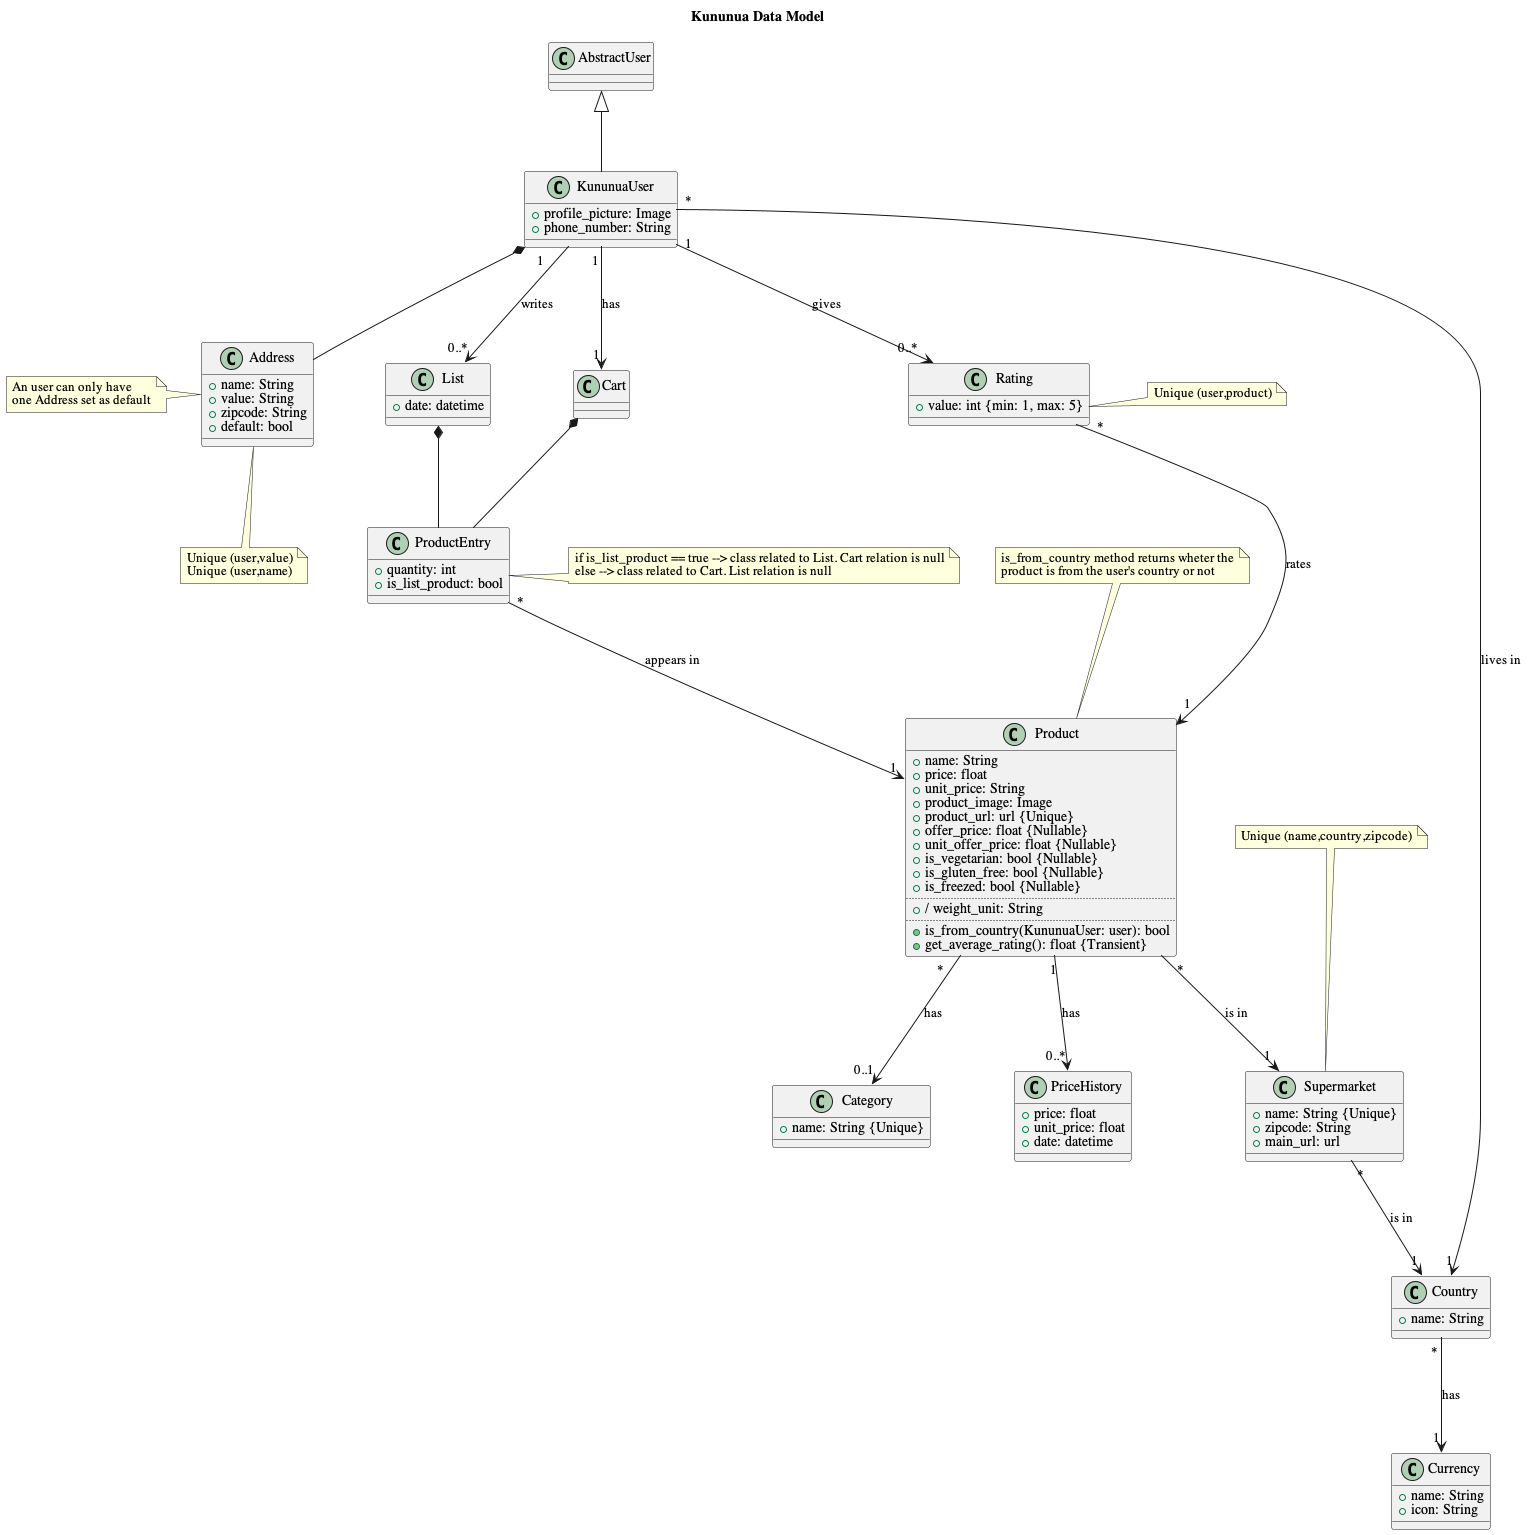
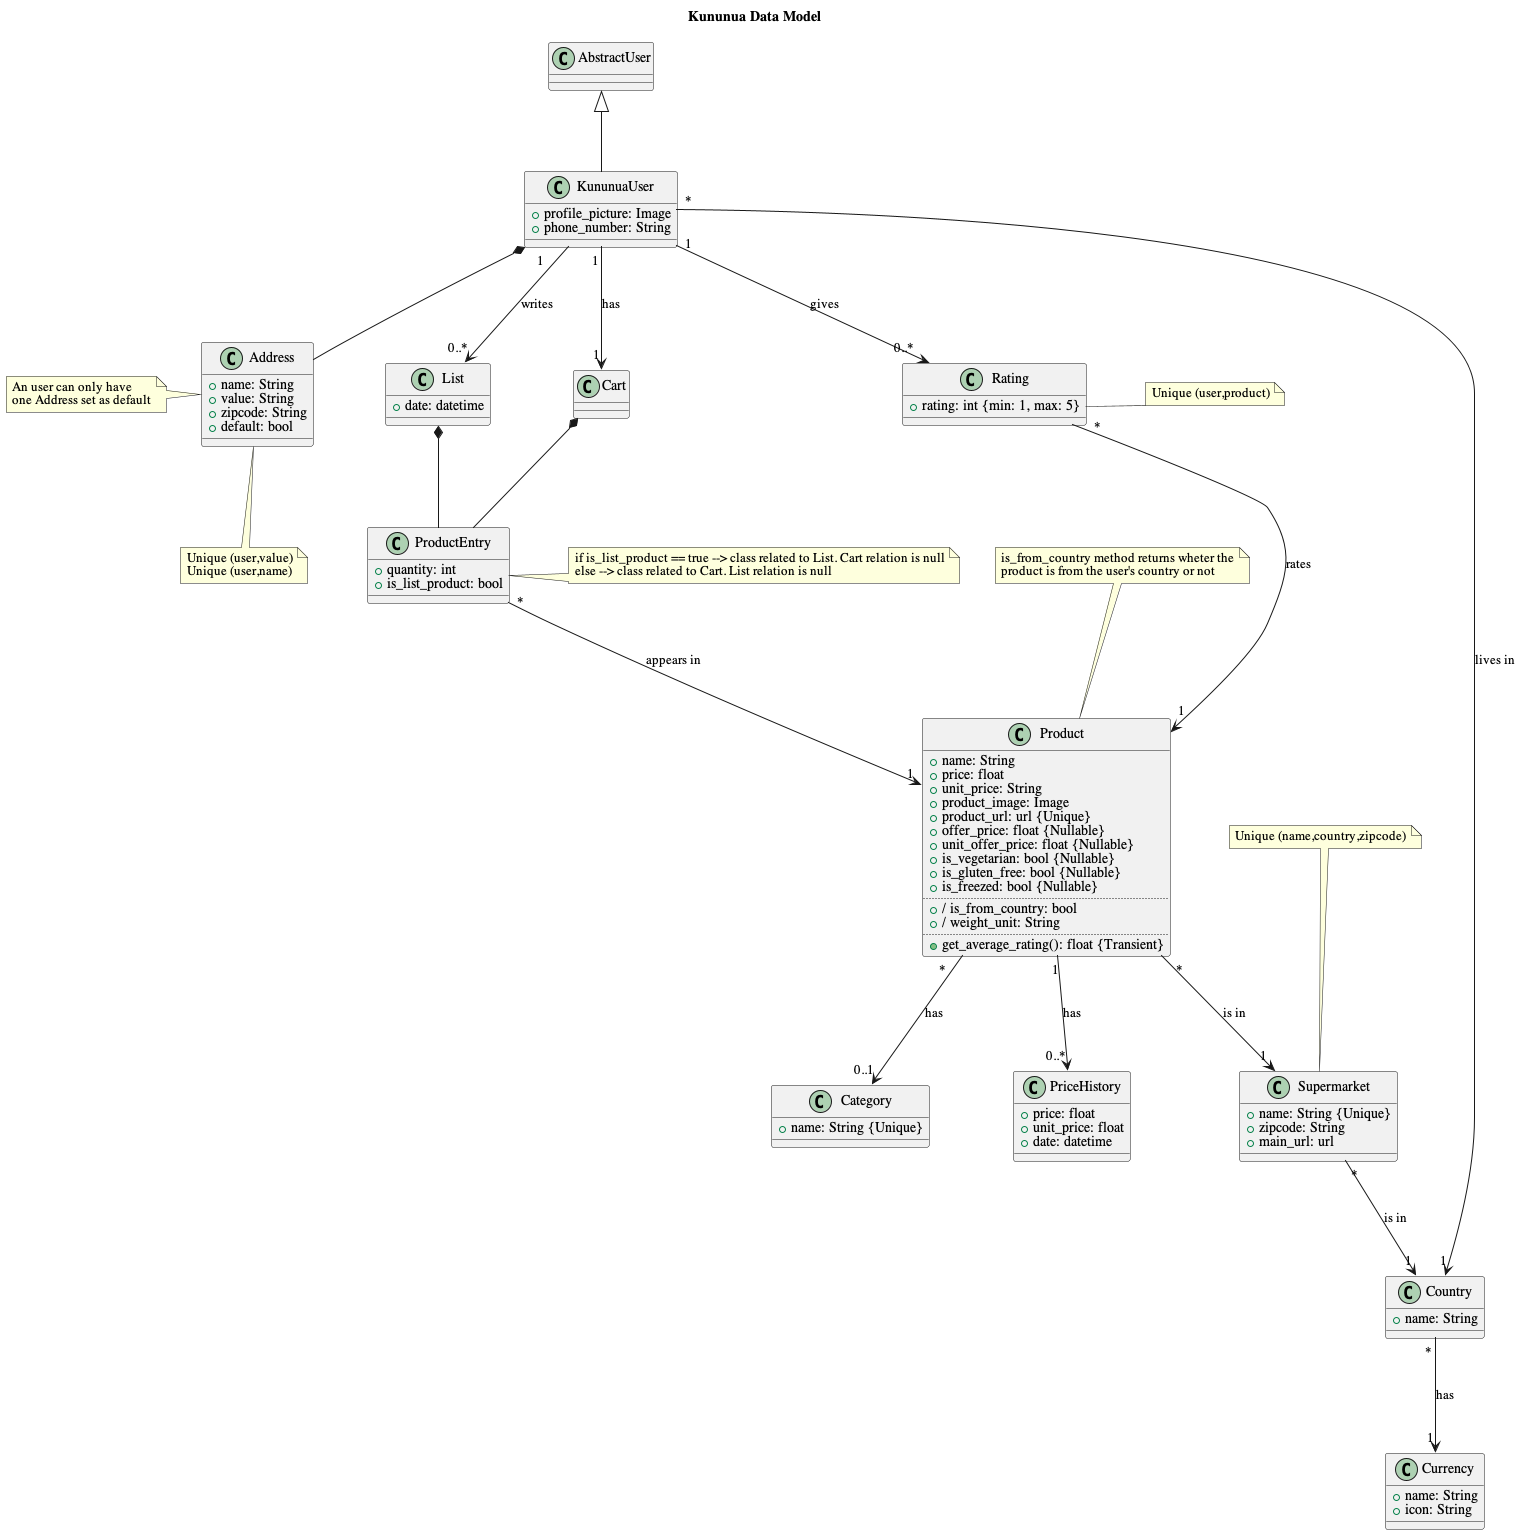
FIX: HELPER FUNCTIONS UPDATE

diff --git a/kununua_app/lib/utils/helper_functions.dart b/kununua_app/lib/utils/helper_functions.dart
@@ -2,52 +2,39 @@ import 'dart:convert';
 import 'package:flutter/material.dart';
 import 'package:graphql_flutter/graphql_flutter.dart';
 
+const  List<String> imageKeys = ['image', 'profilePicture'];
 
 class HelperFunctions{
 
   static Map<String, dynamic> deserializeData(QueryResult<Object?> queryResult){
 
-  Map<String, dynamic> result = {};
-
-  String operationName = queryResult.data!.keys.elementAt(1);
-  Map<String, dynamic> data = queryResult.data![operationName];
-  
-  for (String key in data.keys) {
+    String operationName = queryResult.data!.keys.elementAt(1);
+    Map<String, dynamic> data = queryResult.data![operationName];
     
-    if(key != 'image' && key != '__typename' && key != 'supermarket'){
-      var value = data[key];
-      if(value.runtimeType == Map<String, dynamic>){
-        result[key] = _recursiveDeserialization(value);
-      }else{
-        result[key] = value;
-      }
-    } 
+    Map<String, dynamic> result = _recursiveDeserialization(data);
+
+    return result;
   }
-  
-  data['image'] = HelperFunctions._getImage(data['image']);
 
-  return data;
-}
-
-static Map<String, dynamic> _recursiveDeserialization(Map<String, dynamic> data){
-  Map<String, dynamic> serializedData = {};
-  for (String key in data.keys) {
-    if(key != '__typename' && key != 'image'){
-      var value = data[key];
-      if(value.runtimeType == Map<String, dynamic>){
-        serializedData[key] = _recursiveDeserialization(value);
-      }else{
-        serializedData[key] = value;
+  static Map<String, dynamic> _recursiveDeserialization(Map<String, dynamic> data){
+    Map<String, dynamic> serializedData = {};
+    for (String key in data.keys) {
+      if(imageKeys.contains(key)){
+        serializedData[key] = HelperFunctions._getImage(data[key]);
+      }else if(key != '__typename'){
+        var value = data[key];
+        if(value.runtimeType == Map<String, dynamic>){
+          serializedData[key] = _recursiveDeserialization(value);
+        }else{
+          serializedData[key] = value;
+        }
       }
     }
+
+    return serializedData;
   }
 
-  serializedData['image'] = HelperFunctions._getImage(data['image']);
-
-  return serializedData;
-}
-
-static ImageProvider _getImage(encodedImage){
-  return MemoryImage(base64Decode(encodedImage));
-}
+  static ImageProvider _getImage(encodedImage){
+    return MemoryImage(base64Decode(encodedImage));
+  }
 }

diff --git a/kununua_app/lib/screens/product_details_screen/product_details_screen.dart b/kununua_app/lib/screens/product_details_screen/product_details_screen.dart
@@ -50,9 +50,8 @@ class ProductDetails extends StatelessWidget {
           Map<String, dynamic> product = productResult.data!;
 
           if (product['exception'] != null) {
-            return const ErrorMessage(message: "Ha ocurrido un error. Por favor, inténtelo de nuevo.");
+            return ErrorMessage(message: product['exception']);
           }else{
-
             return DetailsWidget(product: product);
           }
         }else{

diff --git a/kununua_backend/products/models.py b/kununua_backend/products/models.py
@@ -30,23 +30,17 @@ class Product(models.Model):
     name = models.CharField(_("name"), max_length=256)
     price = models.DecimalField(_("price"), max_digits=10, decimal_places=2)
     unit_price = models.CharField(_("unit_price"), max_length=16)
+    weight_unit = models.CharField(_("weight_unit"), max_length=8, default="Kg")
     image = models.ImageField(_("image"), upload_to="products/images/", null=True)
     url = models.URLField(_("url"), unique=True)
     is_vegetarian = models.BooleanField(_("is_vegetarian"), default=False, null=True)
     is_gluten_free = models.BooleanField(_("is_gluten_free"), default=False, null=True)
     is_freezed = models.BooleanField(_("is_freezed"), default=False, null=True)
+    is_from_country = models.BooleanField(_("is_from_country"), default=False, null=True)
     offer_price = models.DecimalField(_("offer_price"), max_digits=10, decimal_places=2, null=True)
     unit_offer_price = models.CharField(_("unit_offer_price"), max_length=16, null=True)
     category = models.ForeignKey(Category, on_delete=models.CASCADE, null=True)
     supermarket = models.ForeignKey(Supermarket, on_delete=models.CASCADE)
-    
-    @property
-    def weight_unit(self):
-        return "NotImplemented"
-    
-    @property
-    def is_from_country(self):
-        return True
     
     def get_average_rating(self):
         return Rating.objects.filter(product=self).aggregate(models.Avg('rating'))['rating__avg']

diff --git a/kununua_backend/kununua_backend/schema.py b/kununua_backend/kununua_backend/schema.py
@@ -1,13 +1,13 @@
 import graphene
-from authentication.types import AuthenticationQuery as SchemeAuthenticationQuery
-from authentication.mutation import Mutation as SchemeAuthenticationMutation
-from products.types import ProductsQuery as SchemeProductsQuery
-from products.mutations import Mutation as SchemeProductMutation
+from authentication.queries import AuthenticationQuery as SchemeAuthenticationQuery
+from authentication.mutations import AuthenticationMutation as SchemeAuthenticationMutation
+from products.queries import ProductsQuery as SchemeProductsQuery
+from products.mutations import ProductsMutation as SchemeProductsMutation
 
 class KununuaQuery(SchemeAuthenticationQuery, SchemeProductsQuery, graphene.ObjectType):
   pass
 
-class KununuaMutation(SchemeAuthenticationMutation, SchemeProductMutation, graphene.ObjectType):
+class KununuaMutation(SchemeAuthenticationMutation, SchemeProductsMutation, graphene.ObjectType):
   pass
 
 schema = graphene.Schema(query=KununuaQuery, mutation=KununuaMutation)

diff --git a/kununua_backend/products/types.py b/kununua_backend/products/types.py
@@ -1,7 +1,6 @@
 import graphene, base64
 from .models import Product, Supermarket, Category, Rating, List, Cart, ProductEntry
 from graphene_django.types import DjangoObjectType
-from location.types import CountryType, CurrencyType
 
 class ProductType(DjangoObjectType):
   class Meta:
@@ -30,19 +29,3 @@ class CartType(DjangoObjectType):
 class ProductEntryType(DjangoObjectType):
   class Meta:
     model = ProductEntry
-    
-class ProductsQuery(object):
-  
-  get_product_by_id = graphene.Field(ProductType, id=graphene.Int())
-
-  def resolve_get_product_by_id(self, info, id):
-      
-    product = Product.objects.get(pk=id)
-    
-    with open(product.image.url[1:], "rb") as img:
-      
-        encoded_image = base64.b64encode(bytes(img.read()))
-      
-        product.image = encoded_image.decode("utf-8")
-  
-    return product

diff --git a/kununua_backend/products/queries.py b/kununua_backend/products/queries.py
@@ -1,0 +1,25 @@
+import graphene, base64
+from .types import ProductType
+from location.types import CountryType
+from .models import Product
+
+
+class ProductsQuery(object):
+  
+  get_product_by_id = graphene.Field(ProductType, id=graphene.Int())
+
+  def resolve_get_product_by_id(self, info, id):
+      
+    product = Product.objects.get(pk=id)
+    image_url = product.image.url
+    
+    if product.image.url.startswith("/"):
+      image_url = image_url[1:]
+    
+    with open(image_url, "rb") as img:
+      
+        encoded_image = base64.b64encode(bytes(img.read()))
+      
+        product.image = encoded_image.decode("utf-8")
+  
+    return product

diff --git a/kununua_backend/authentication/mutations.py b/kununua_backend/authentication/mutations.py
@@ -103,7 +103,7 @@ class ObtainJSONWebToken(graphql_jwt.JSONWebTokenMutation):
     def resolve(cls, root, info, **kwargs):
         return cls(user=info.context.user)
 
-class Mutation(graphene.ObjectType):
+class AuthenticationMutation(graphene.ObjectType):
   token_auth = ObtainJSONWebToken.Field()
   verify_token = graphql_jwt.Verify.Field()
   refresh_token = graphql_jwt.Refresh.Field()

diff --git a/kununua_backend/authentication/types.py b/kununua_backend/authentication/types.py
@@ -4,10 +4,3 @@ from authentication.models import KununuaUser
 class KununuaUserType(DjangoObjectType):
   class Meta:
     model = KununuaUser
-    
-class AuthenticationQuery(object):
-  
-  get_user_by_username = graphene.Field(KununuaUserType, username=graphene.String())
-
-  def resolve_get_user_by_username(self, info, username):
-    return KununuaUser.objects.get(username=username)

diff --git a/kununua_backend/authentication/queries.py b/kununua_backend/authentication/queries.py
@@ -1,0 +1,10 @@
+import graphene
+from .types import KununuaUserType
+from .models import KununuaUser
+
+class AuthenticationQuery(object):
+  
+  get_user_by_username = graphene.Field(KununuaUserType, username=graphene.String())
+
+  def resolve_get_user_by_username(self, info, username):
+    return KununuaUser.objects.get(username=username)

diff --git a/kununua_backend/products/mutations.py b/kununua_backend/products/mutations.py
@@ -22,5 +22,5 @@ class AddImageToProductMutation(graphene.Mutation):
     
     return AddImageToProductMutation(product=selected_product)
 
-class Mutation(graphene.ObjectType):
+class ProductsMutation(graphene.ObjectType):
   add_image_to_product = AddImageToProductMutation.Field()
